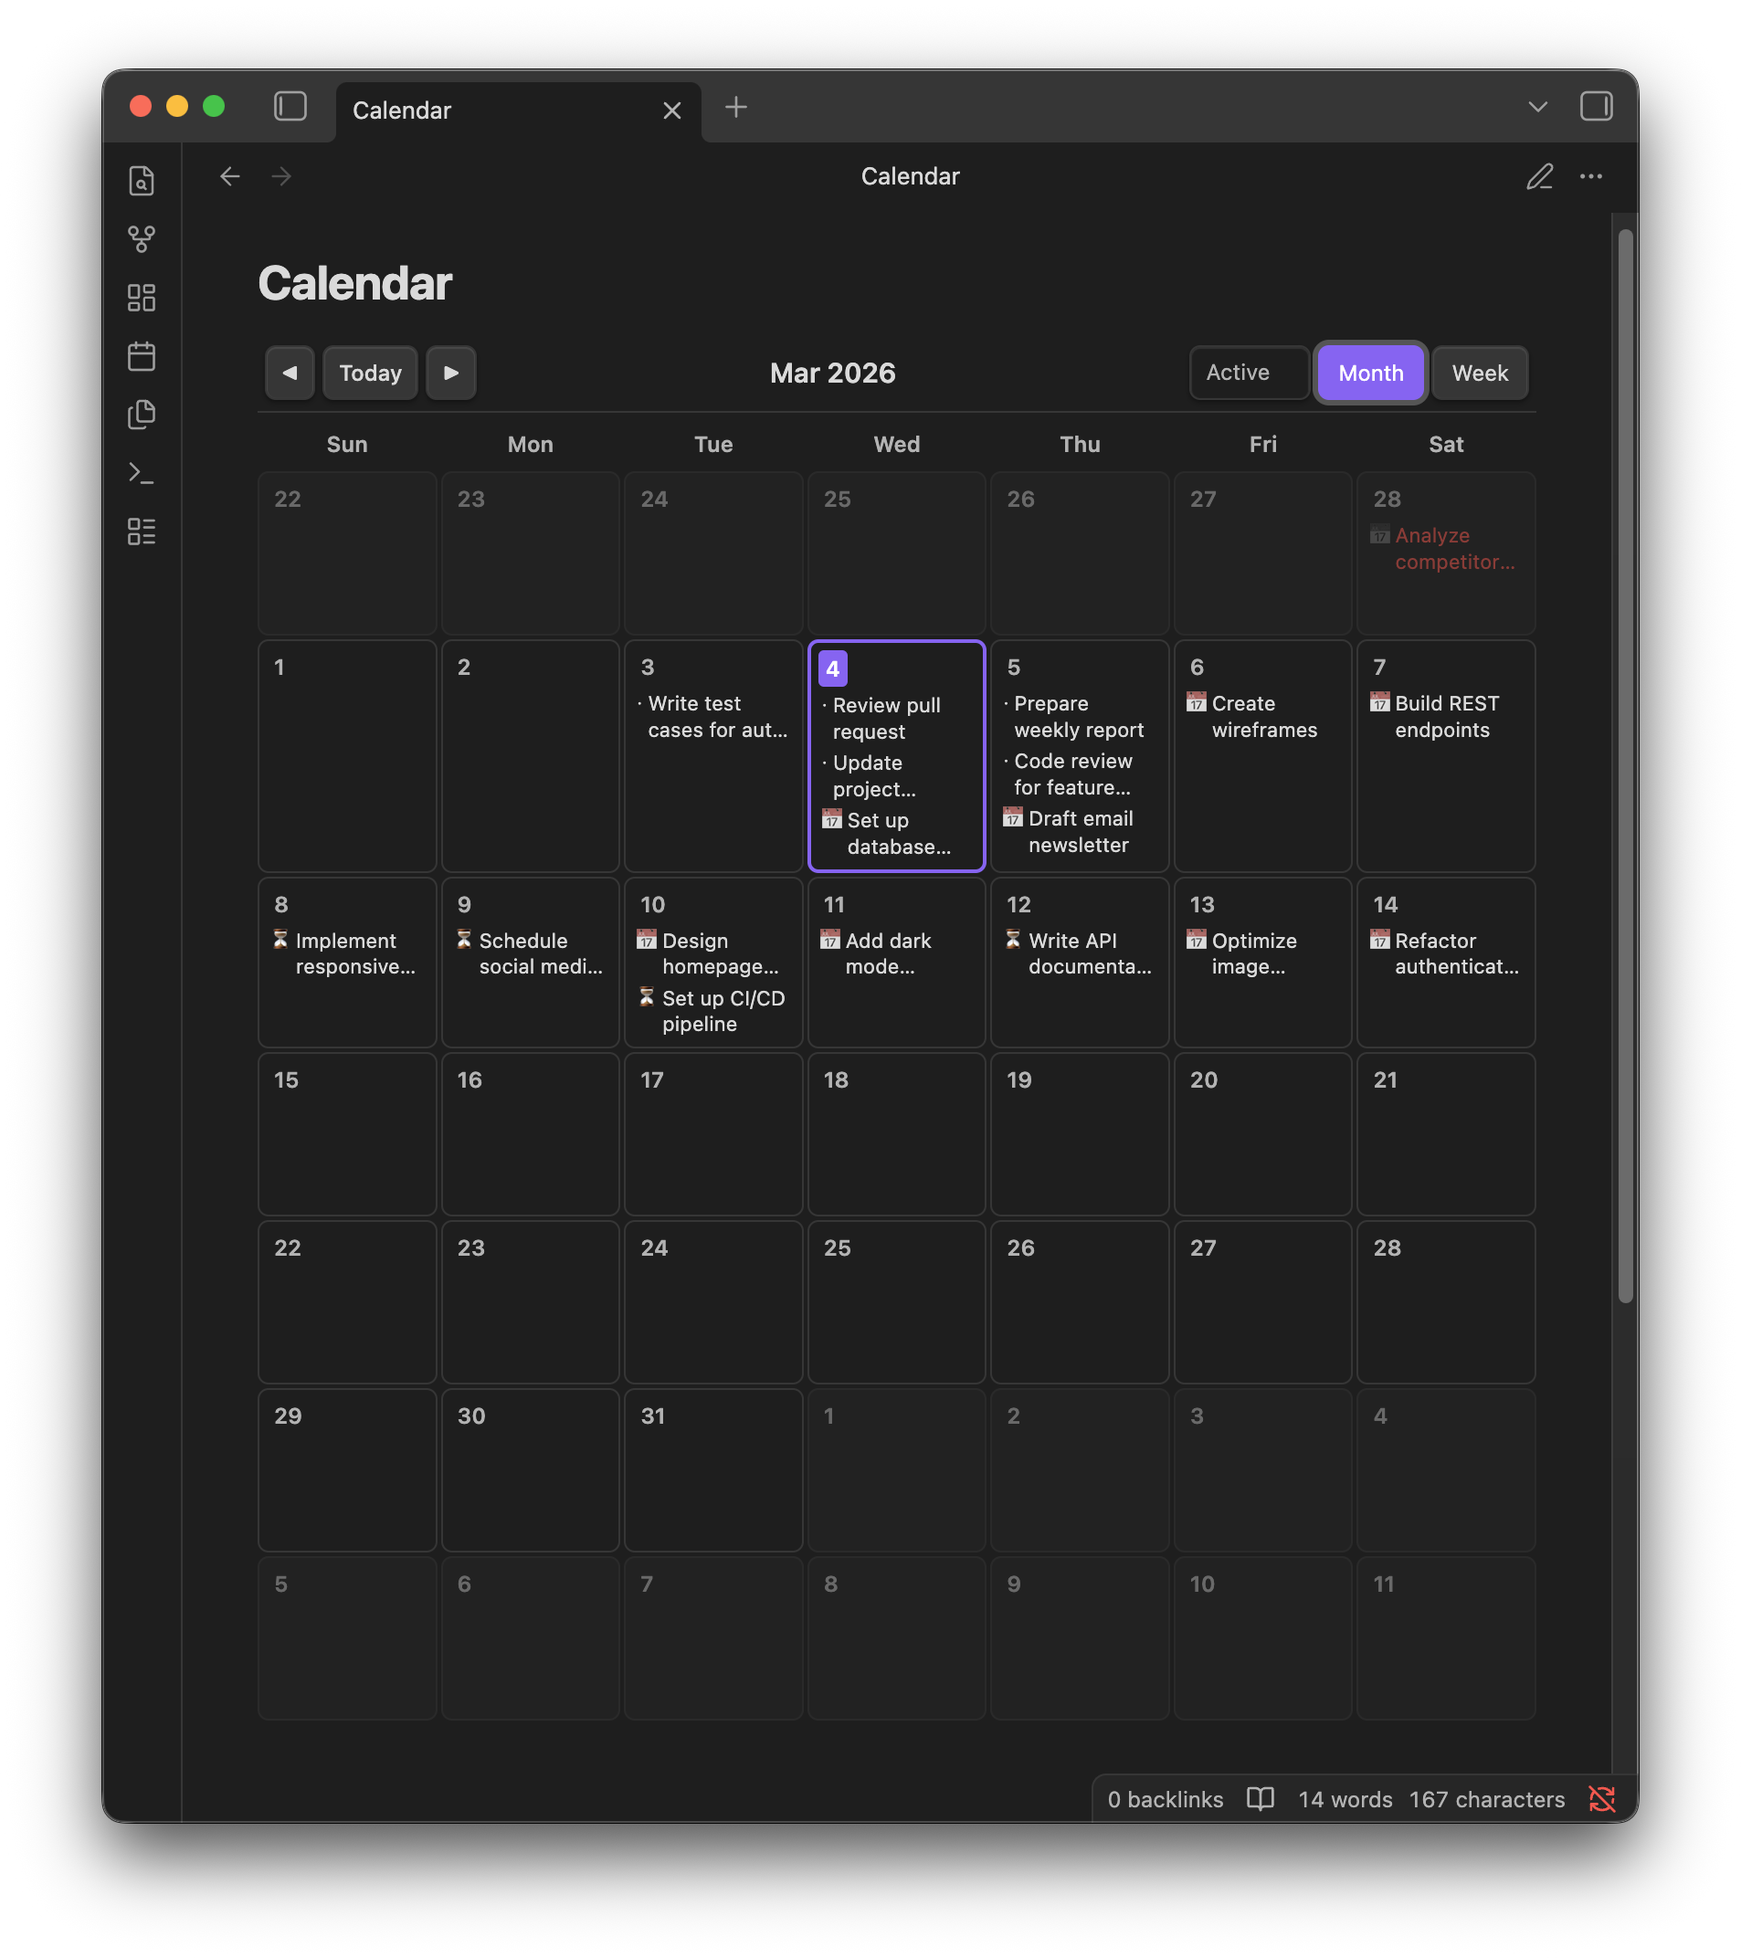
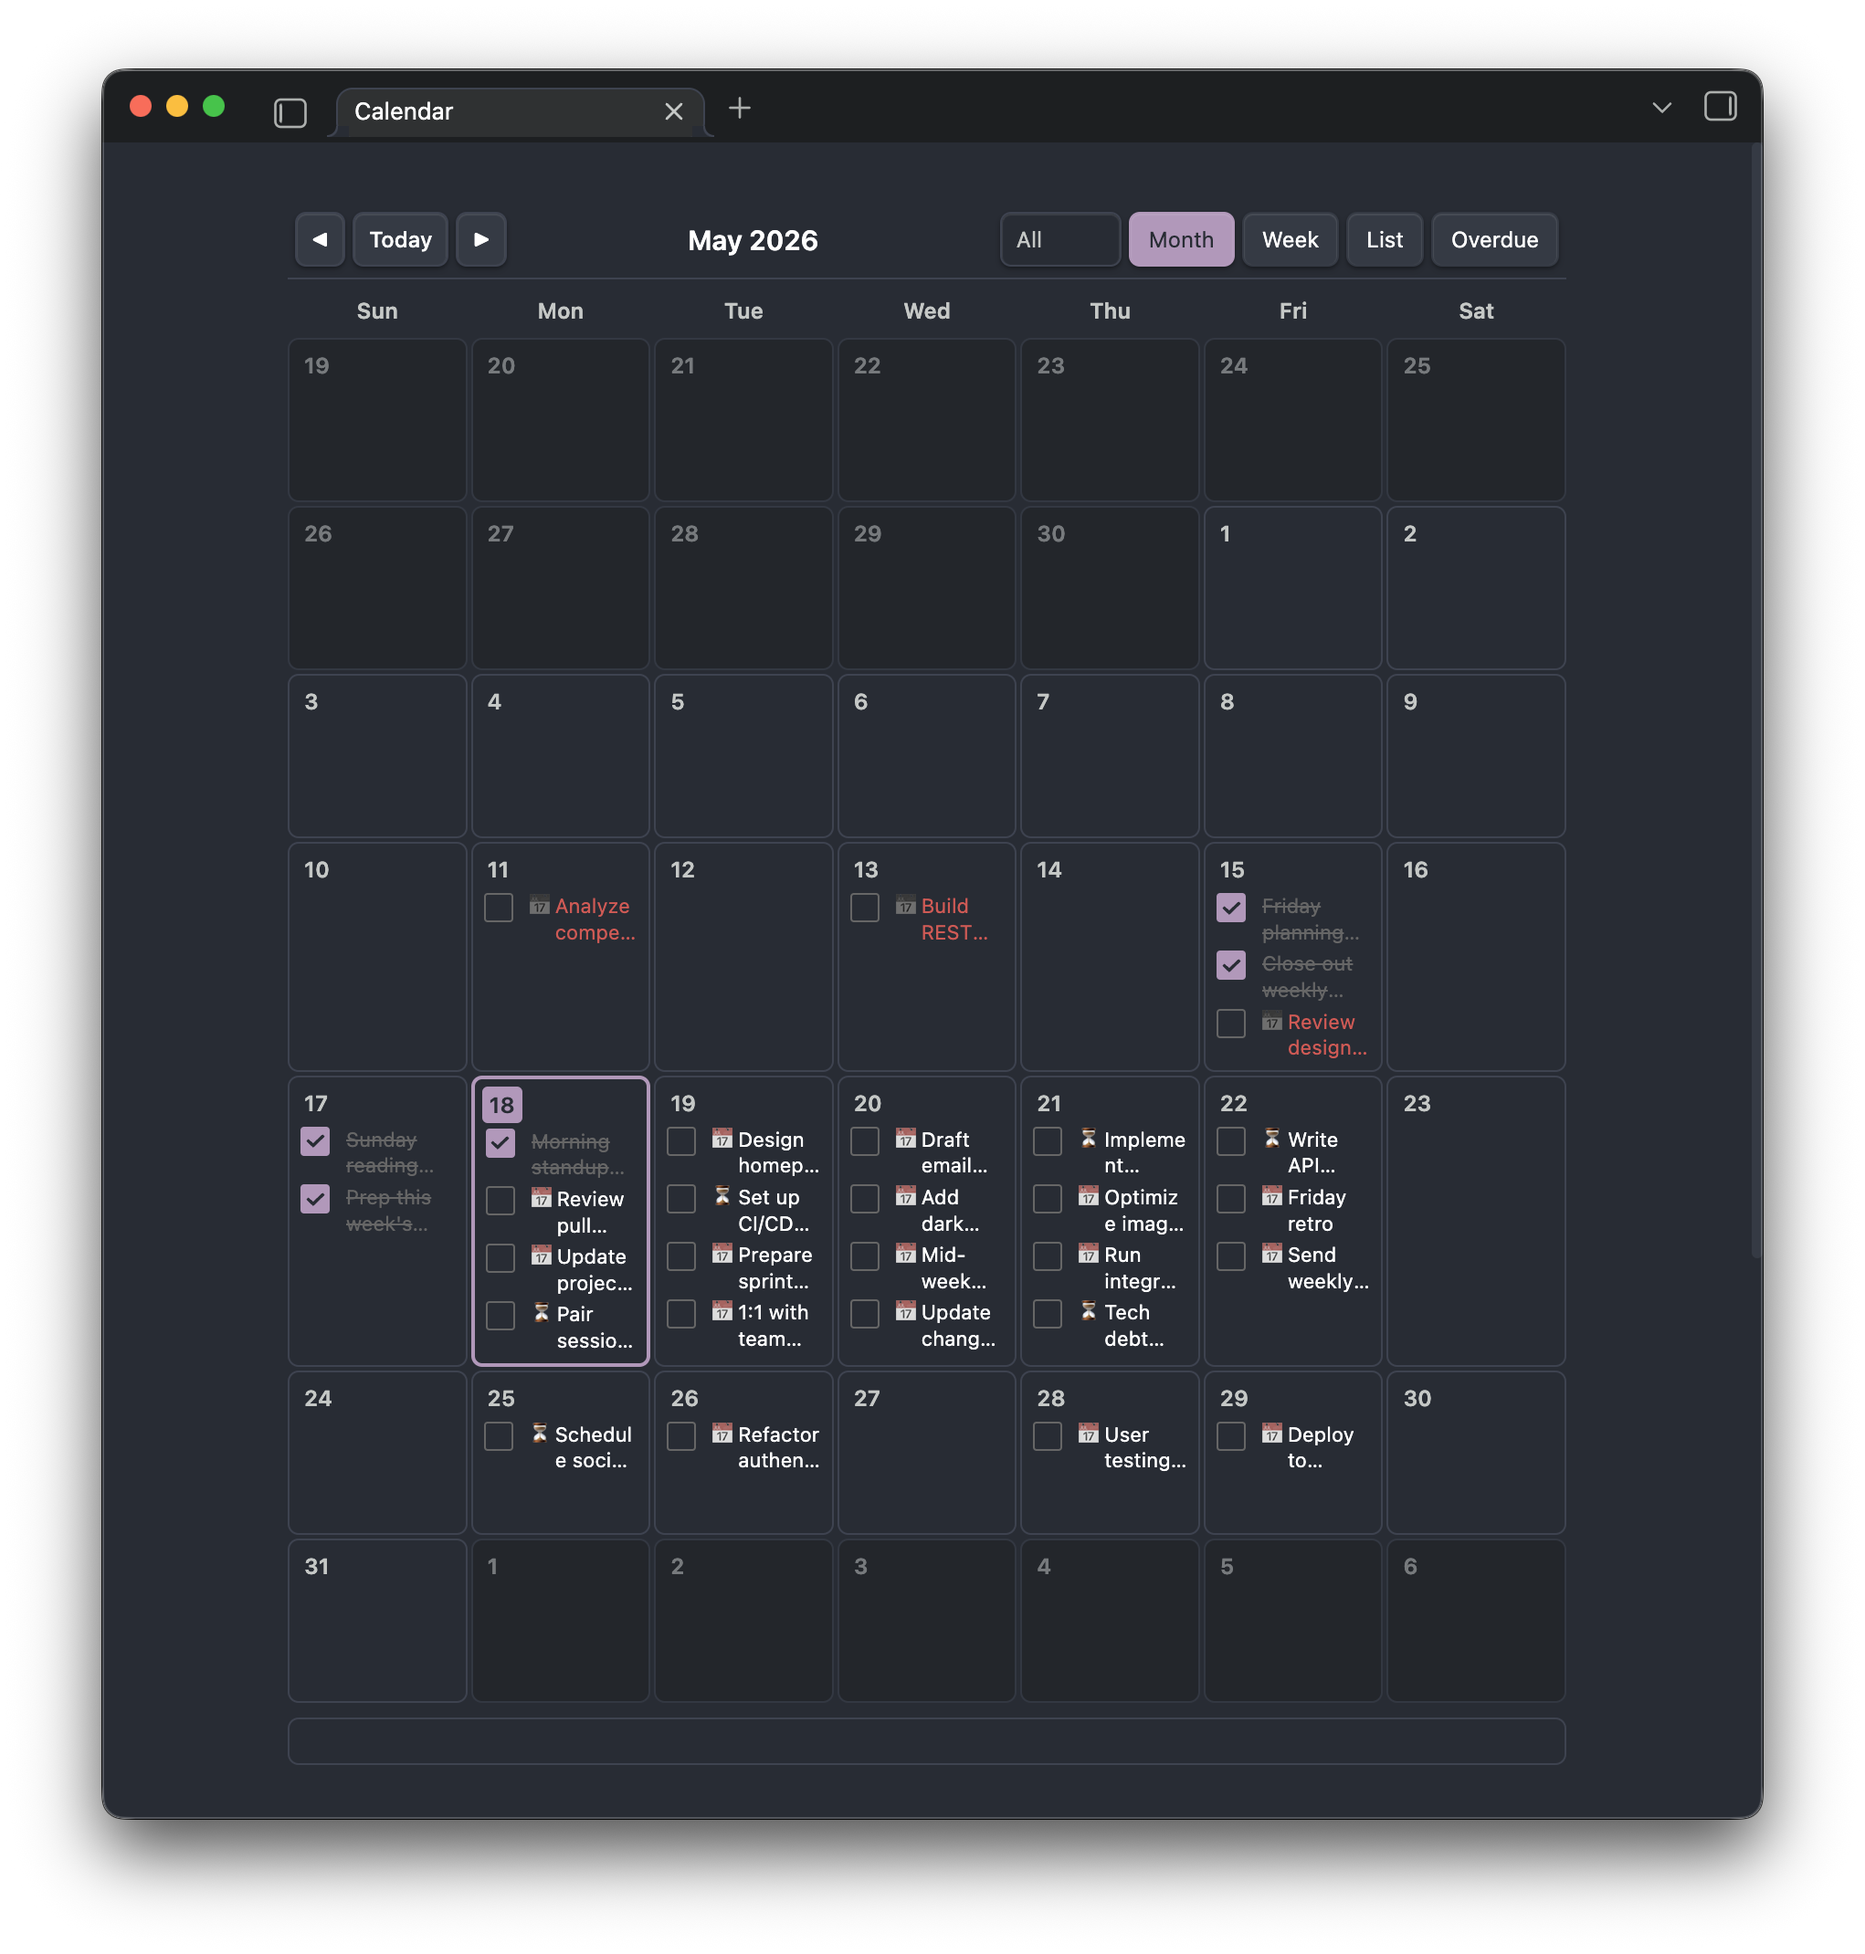
docs: refresh screenshots with all four views
Replace month/week screenshots with cleaner captures showing today's
highlight, overdue markers, and emoji indicators. Add list and overdue
view screenshots, and expand the README preview grid to 2x2 so all four
views are visible upfront.

diff --git a/README.md b/README.md
@@ -4,9 +4,11 @@ A minimal, dependency-free calendar view for [Obsidian](https://obsidian.md/) th
 
 ![Month View](https://img.shields.io/badge/view-month-blue) ![Week View](https://img.shields.io/badge/view-week-green) ![License](https://img.shields.io/badge/license-MIT-yellow)
 
-| Month View | Week View |
+| Month | Week |
 |:---:|:---:|
 | ![Month View](screenshots/month-view.png) | ![Week View](screenshots/week-view.png) |
+| **List** | **Overdue** |
+| ![List View](screenshots/list-view.png) | ![Overdue View](screenshots/overdue-view.png) |
 
 ## Features
 
